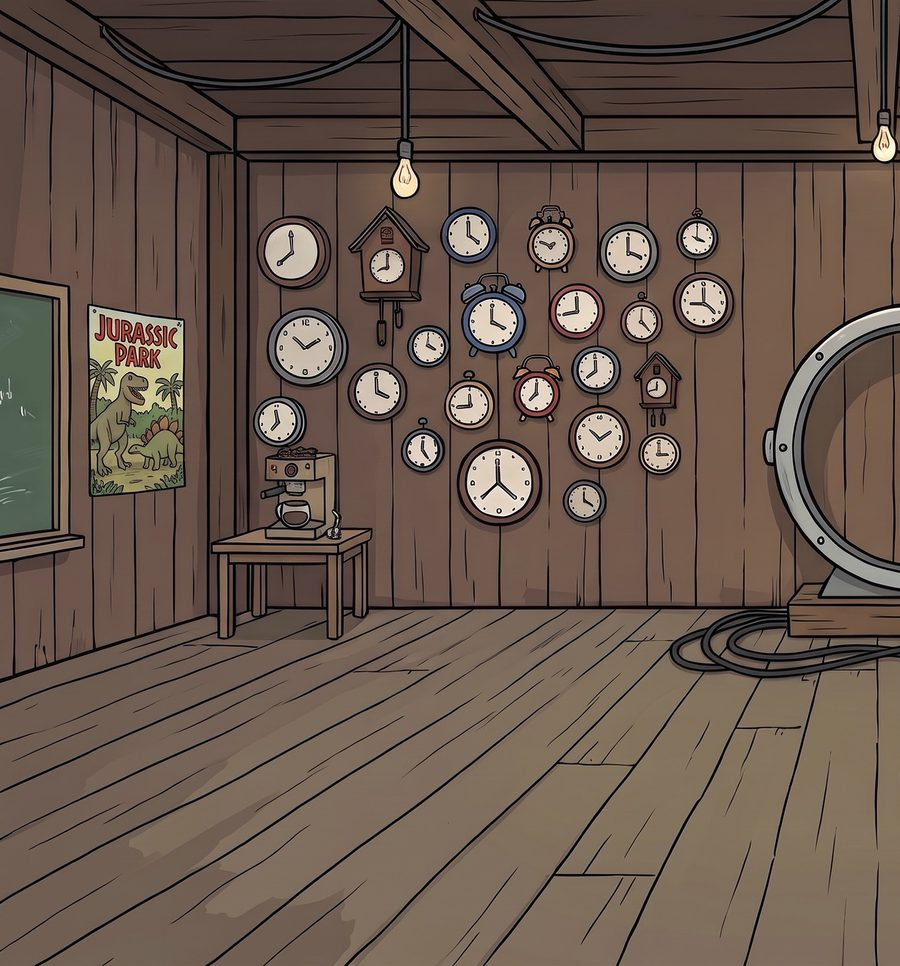
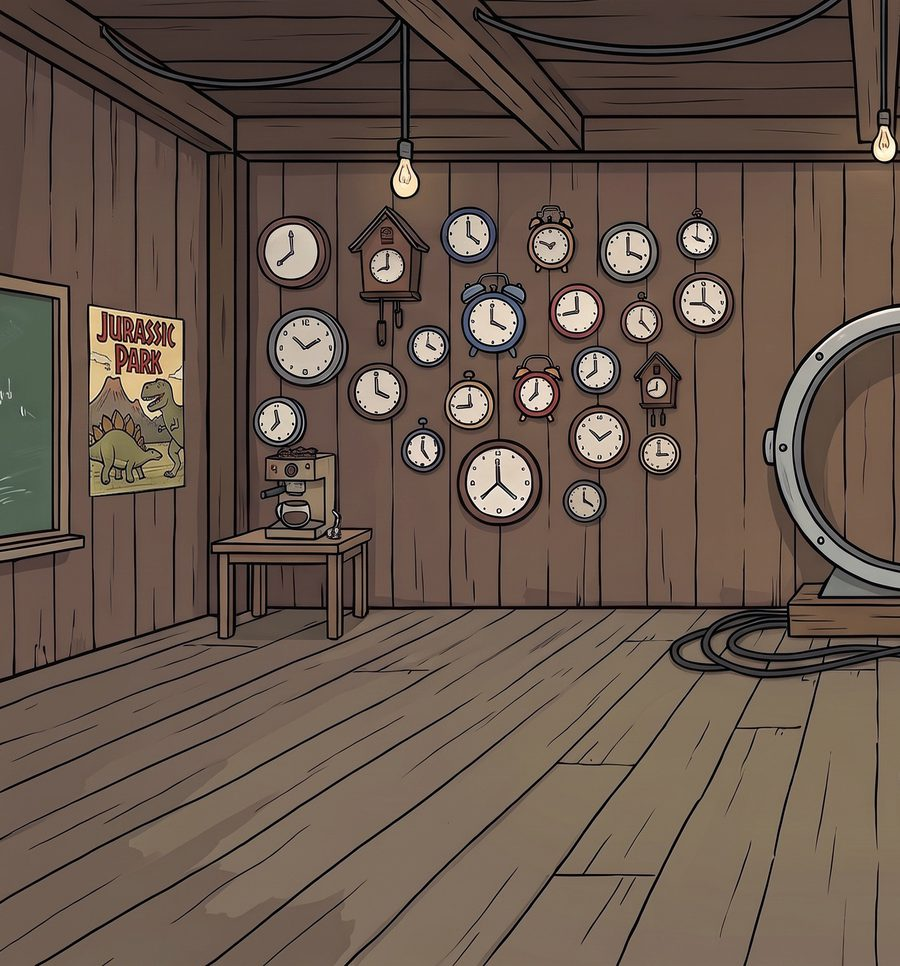
Stickman 設定：時光機牆半面牆圖的海報換成跟黑板牆同一款

Changed region(s): [[0.0933, 0.3106, 0.2178, 0.528]]

diff --git a/stickman/characters/index.html b/stickman/characters/index.html
@@ -158,9 +158,9 @@ All four panels show the same room, the same objects and the same colors, as if 
 <div class="card"><h3>地圖上的東西</h3><table class="t"><tr><th>#</th><th>東西</th><th>格</th><th>位置</th></tr><tr><td>1</td><td>大門（房子正面，朝南）</td><td>K20</td><td>南牆中間，對著外面的門口步道（跟校園地圖一致）</td></tr><tr><td>2</td><td>前門旁的窗</td><td>O20</td><td>南牆，門的東邊</td></tr><tr><td>3</td><td>綠色黑板</td><td>A7</td><td>西牆中段</td></tr><tr><td>4</td><td>電影海報</td><td>A4</td><td>西牆北端，黑板北邊、靠時鐘那一角；劇情 S02-2 要用</td></tr><tr><td>5</td><td>時光機（金屬圓環）</td><td>K2</td><td>北牆中間偏東；出發時站進圓環</td></tr><tr><td>6</td><td>紅色拉桿</td><td>P3</td><td>圓環東邊</td></tr><tr><td>7</td><td>控制台（轉盤、開關、CRT 螢幕）</td><td>T2</td><td>東北角，靠北牆</td></tr><tr><td>8</td><td>電子工作桌（放生存指南和水壺）</td><td>U3</td><td>靠東牆</td></tr><tr><td>9</td><td>行軍床上方的窗</td><td>V17</td><td>東牆南段，行軍床上方；早上陽光從這裡進來</td></tr><tr><td>10</td><td>滿牆的時鐘</td><td>B1</td><td>北牆西半段（時光旅行主題；氣氛參考回到未來，只借「滿牆時鐘」）</td></tr><tr><td>11</td><td>自動咖啡機小桌</td><td>B2</td><td>北牆，時鐘下方、圓環西邊</td></tr><tr><td>12</td><td>行軍床</td><td>R18</td><td>東南角、東窗下；博士窮到住在實驗室</td></tr><tr><td>13</td><td>工作桌上方的窗</td><td>V5</td><td>東牆北段</td></tr></table></div>
 </div>
 <div class="grid" style="margin-top:16px">
-<figure><img loading="lazy" src="img/LAB_MACHINE_L.jpg?v=poster1114" alt="LAB_MACHINE_L：北牆（時光機那面）左半"><figcaption><b>LAB_MACHINE_L</b>：北牆（時光機那面）左半。時鐘、咖啡機；左側牆：海報、黑板；右緣：時光機左半。</figcaption></figure><figure><img loading="lazy" src="img/LAB_MACHINE_R.jpg?v=poster1114" alt="LAB_MACHINE_R：北牆（時光機那面）右半"><figcaption><b>LAB_MACHINE_R</b>：北牆（時光機那面）右半。時光機、拉桿、控制台；右側牆：工作桌、窗。</figcaption></figure><figure><img loading="lazy" src="img/LAB_DOOR_L.jpg?v=poster1114" alt="LAB_DOOR_L：南牆（大門那面）左半"><figcaption><b>LAB_DOOR_L</b>：南牆（大門那面）左半。行軍床、窗、門（右緣）；左側牆：窗。</figcaption></figure><figure><img loading="lazy" src="img/LAB_DOOR_R.jpg?v=poster1114" alt="LAB_DOOR_R：南牆（大門那面）右半"><figcaption><b>LAB_DOOR_R</b>：南牆（大門那面）右半。門（左緣）、空牆；右側牆：黑板。</figcaption></figure><figure><img loading="lazy" src="img/LAB_CHALK_L.jpg?v=poster1114" alt="LAB_CHALK_L：西牆（黑板那面）左半"><figcaption><b>LAB_CHALK_L</b>：西牆（黑板那面）左半。黑板左段；左側牆：門。</figcaption></figure><figure><img loading="lazy" src="img/LAB_CHALK_R.jpg?v=poster1114" alt="LAB_CHALK_R：西牆（黑板那面）右半"><figcaption><b>LAB_CHALK_R</b>：西牆（黑板那面）右半。黑板右段、海報、咖啡機；右側牆：時鐘。</figcaption></figure><figure><img loading="lazy" src="img/LAB_BENCH_L.jpg?v=poster1114" alt="LAB_BENCH_L：東牆（工作桌那面）左半"><figcaption><b>LAB_BENCH_L</b>：東牆（工作桌那面）左半。工作桌、窗；左側牆：控制台。</figcaption></figure><figure><img loading="lazy" src="img/LAB_BENCH_R.jpg?v=poster1114" alt="LAB_BENCH_R：東牆（工作桌那面）右半"><figcaption><b>LAB_BENCH_R</b>：東牆（工作桌那面）右半。窗、行軍床；右側牆：窗。</figcaption></figure>
+<figure><img loading="lazy" src="img/LAB_MACHINE_L.jpg?v=poster1114b" alt="LAB_MACHINE_L：北牆（時光機那面）左半"><figcaption><b>LAB_MACHINE_L</b>：北牆（時光機那面）左半。時鐘、咖啡機；左側牆：海報、黑板；右緣：時光機左半。</figcaption></figure><figure><img loading="lazy" src="img/LAB_MACHINE_R.jpg?v=poster1114" alt="LAB_MACHINE_R：北牆（時光機那面）右半"><figcaption><b>LAB_MACHINE_R</b>：北牆（時光機那面）右半。時光機、拉桿、控制台；右側牆：工作桌、窗。</figcaption></figure><figure><img loading="lazy" src="img/LAB_DOOR_L.jpg?v=poster1114" alt="LAB_DOOR_L：南牆（大門那面）左半"><figcaption><b>LAB_DOOR_L</b>：南牆（大門那面）左半。行軍床、窗、門（右緣）；左側牆：窗。</figcaption></figure><figure><img loading="lazy" src="img/LAB_DOOR_R.jpg?v=poster1114" alt="LAB_DOOR_R：南牆（大門那面）右半"><figcaption><b>LAB_DOOR_R</b>：南牆（大門那面）右半。門（左緣）、空牆；右側牆：黑板。</figcaption></figure><figure><img loading="lazy" src="img/LAB_CHALK_L.jpg?v=poster1114" alt="LAB_CHALK_L：西牆（黑板那面）左半"><figcaption><b>LAB_CHALK_L</b>：西牆（黑板那面）左半。黑板左段；左側牆：門。</figcaption></figure><figure><img loading="lazy" src="img/LAB_CHALK_R.jpg?v=poster1114" alt="LAB_CHALK_R：西牆（黑板那面）右半"><figcaption><b>LAB_CHALK_R</b>：西牆（黑板那面）右半。黑板右段、海報、咖啡機；右側牆：時鐘。</figcaption></figure><figure><img loading="lazy" src="img/LAB_BENCH_L.jpg?v=poster1114" alt="LAB_BENCH_L：東牆（工作桌那面）左半"><figcaption><b>LAB_BENCH_L</b>：東牆（工作桌那面）左半。工作桌、窗；左側牆：控制台。</figcaption></figure><figure><img loading="lazy" src="img/LAB_BENCH_R.jpg?v=poster1114" alt="LAB_BENCH_R：東牆（工作桌那面）右半"><figcaption><b>LAB_BENCH_R</b>：東牆（工作桌那面）右半。窗、行軍床；右側牆：窗。</figcaption></figure>
 </div>
-<p class="note">實驗室格子附參考圖用這 8 張（Flow 裡同名）：每張＝正面牆的左半或右半＋同一側的側牆，符合上面的鏡頭規則。做法：每面牆先畫一張 10 × 9 公尺的整面牆（角落到角落），再從正面牆中線切成左右兩半（重疊約 5%），等於同一位置換窄鏡頭。舊的 8 × 6 整面牆圖（LAB_*_WALL）不再使用。海報＝JURASSIC PARK（暴龍＋劍龍＋片名）：黑板牆和時光機牆兩張原圖照原樣重畫、只換海報（2026-11-14）。跟地圖小出入：控制台畫在北牆偏右、沒貼緊東北角；東牆右半的行軍床擺在正面牆前，不是順著側牆。</p>
+<p class="note">實驗室格子附參考圖用這 8 張（Flow 裡同名）：每張＝正面牆的左半或右半＋同一側的側牆，符合上面的鏡頭規則。做法：每面牆先畫一張 10 × 9 公尺的整面牆（角落到角落），再從正面牆中線切成左右兩半（重疊約 5%），等於同一位置換窄鏡頭。舊的 8 × 6 整面牆圖（LAB_*_WALL）不再使用。海報＝JURASSIC PARK（暴龍＋劍龍＋片名）：黑板牆和時光機牆兩張原圖照原樣重畫、只換海報；時光機牆那張的海報再換成跟黑板牆同一款（火山版），兩張海報一模一樣（2026-11-14）。跟地圖小出入：控制台畫在北牆偏右、沒貼緊東北角；東牆右半的行軍床擺在正面牆前，不是順著側牆。</p>
 <details><summary>四面整面牆的 prompt（10 × 9 公尺版，切半前的原圖）</summary><p class="note">在 Flow 各開一張，16:9；附舊牆面圖只取畫風和東西長相，位置大小照文字。挑 WALL10-N #2、S #2、W #4、E #2。</p><h3>WALL10-N（附 LAB_MACHINE_WALL、LAB_CHALKBOARD_WALL、LAB_WORKBENCH_WALL）</h3><div class="prompt">16:9, generate 1 image. A background picture for a flat 2D cartoon: thick black outlines, flat colors, simple shading. Use the attached pictures only for the drawing style and for what each object looks like. The attached pictures show the room too small: this room is big, so place and size everything exactly as described below. No characters and no people. No text, letters or numbers anywhere — not on the poster, the clocks or the screens.
 
 The place: one big room, about 10 meters wide and 9 meters deep, on the ground floor of an old wooden hut turned into a cluttered homemade tech lab. Weathered brown wooden plank walls, an old wooden plank floor, a ceiling of exposed wooden beams about 3 meters high with electric cables along them and a few bare light bulbs hanging down. Morning daylight.
